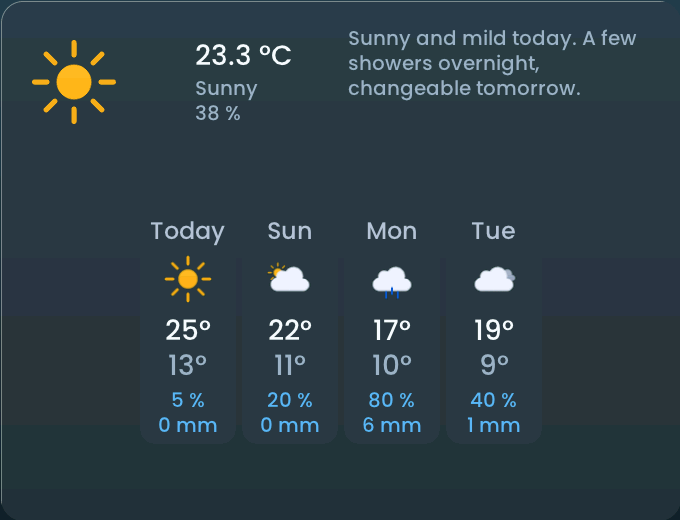
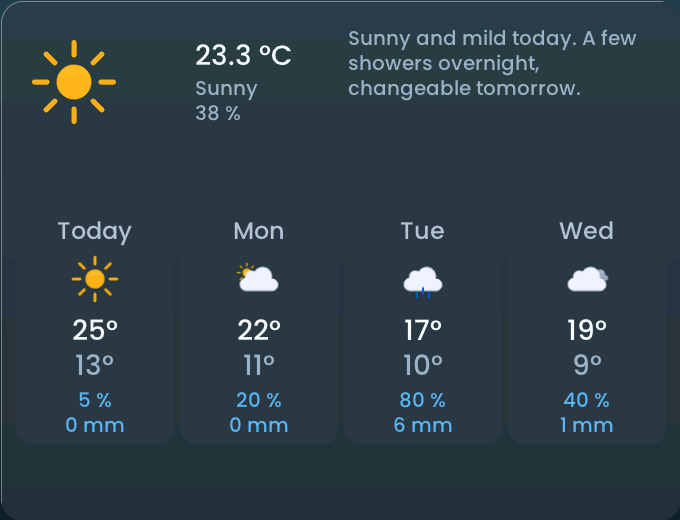
docs(weather): merge the weather guides and regenerate the gallery
Weather forecast is the days view of the Weather tile, so it no longer has a
guide of its own: weather_tile.md covers both views and the day selection,
weather_3day stays a legacy type without guide, gallery and doc examples are
rendered from the merged tile, and the release notes describe one Weather tile.

The simulator now picks the text caps of a tile through
ui_widget_factory_caps_type(), as the firmware does, so a weather tile that shows
days is checked with the forecast caps (it overflowed on Tab5 at 260x480).

diff --git a/components/webui/www/js/i18n-de.js b/components/webui/www/js/i18n-de.js
@@ -1297,8 +1297,7 @@ Object.assign(WEB_I18N_BUILTIN, {
     "inspector.help.widget_empty_tile": "Reserviert **Platz** im Layout. Die Kachel hat keine Entität und abonniert nichts.",
     "inspector.help.widget_light_tile": "Schaltet eine light.*-Entität und regelt **Helligkeit, Farbtemperatur, Farbe und Effekte**, soweit das Licht sie unterstützt.",
     "inspector.help.widget_heating_tile": "Zeigt **Ist- und Solltemperatur** einer Heizungs-Entität (climate.*) und ändert die Solltemperatur.",
-    "inspector.help.widget_weather_tile": "Zeigt das **aktuelle Wetter** einer weather.*-Entität, optional mit stündlicher Vorhersage und einem Detail-Popup für Messwerte und den DWD-Wetterbericht.",
-    "inspector.help.widget_weather_3day": "Vergleicht **Vorhersagetage** einer weather.*-Entität: Temperaturen und Niederschlag in einstellbaren Spalten.",
+    "inspector.help.widget_weather_tile": "Zeigt das **Wetter** einer weather.*-Entität: aktuelle Bedingungen mit optionaler stündlicher Vorhersage oder die **Vorhersagetage** als Spalten; zwei Tasten schalten um.",
     "inspector.help.widget_solar_forecast": "Vergleicht die **erwartete Solarproduktion** aus sensor.*-Prognosen für heute und die nächsten sechs Tage.",
     "inspector.help.widget_car_widget": "Zeigt den **Akkustand** eines Fahrzeugs aus einer sensor.*-Entität als Ringe, mit optionaler Reichweite, Ladeleistung und Fahrzeugsteuerung.",
     "inspector.help.widget_bambu_printer": "Zeigt **Status**, Temperaturen, Fortschritt und Restzeit eines **Bambu-Lab-Druckers** aus dessen sensor.*-Entitäten, mit einer gemeinsamen Pause/Weiter-Taste und einer separaten Taste zum Druckabbruch.",

diff --git a/components/webui/www/js/i18n.js b/components/webui/www/js/i18n.js
@@ -1326,8 +1326,7 @@ const WEB_I18N_BUILTIN = {
     "inspector.help.widget_empty_tile": "Reserves **dashboard space**. It has no entity and subscribes to nothing.",
     "inspector.help.widget_light_tile": "Switches a light.* entity and adjusts **brightness, colour temperature, colour and effects** as far as the light supports them.",
     "inspector.help.widget_heating_tile": "Shows a heating climate.* entity's **measured and target temperatures** and adjusts the target.",
-    "inspector.help.widget_weather_tile": "Shows the **current conditions** of a weather.* entity, with optional hourly forecasts and a detail popup for readings and the DWD weather report.",
-    "inspector.help.widget_weather_3day": "Compares **forecast days** of a weather.* entity: temperatures and precipitation in configurable columns.",
+    "inspector.help.widget_weather_tile": "Shows the **weather** of a weather.* entity: current conditions with optional hourly forecasts, or the **forecast days** as columns; a button pair switches between them.",
     "inspector.help.widget_solar_forecast": "Compares the **predicted solar production** from sensor.* forecasts for today and the next six days.",
     "inspector.help.widget_car_widget": "Shows a **car's battery level** from a sensor.* entity as rings, with optional range, charging power and vehicle controls.",
     "inspector.help.widget_bambu_printer": "Shows a **Bambu Lab printer's status**, temperatures, progress and remaining time from its sensor.* entities, with one Pause/Resume control and a separate print-abort button.",

diff --git a/components/webui/www/js/inspector-hints.js b/components/webui/www/js/inspector-hints.js
@@ -118,7 +118,7 @@ function inspectorHelpParagraphs(text) {
 function inspectorHelpTopic() {
   const widget = selectedWidget();
   if (widget) {
-    const type = widget.type === "roborock_tile" ? "vacuum_tile" : widget.type;
+    const type = widget.type === "roborock_tile" ? "vacuum_tile" : widget.type === "weather_3day" ? "weather_tile" : widget.type;
     if (!WIDGET_NAME_TYPES.has(type)) return null;
     // The popup repeats the guide's summary (tools/check_web.py compares them), so it links to the guide's top.
     return { type, url: "https://andre68723.github.io/BETTA-HA-PANEL/widgets/" + (type === "wallbox_evcc" ? "wallbox" : type) + ".html" };

diff --git a/tools/widget_docs_content.py b/tools/widget_docs_content.py
@@ -390,35 +390,26 @@ WIDGETS = {
         "panel": ["Status, power, charged energy, remaining time and the current SOC on a green bar.",
                   "The optional header sits above the modes: the charging power against its maximum, or the site's flow as in the evcc app: one bar of the sources (PV, battery, grid) with their values in kW, brackets with icons above for the sources and below for the consumers (home, car, battery charge, export). On the 10-inch panel it needs about 410 px (power) or 450 px (flow) of height, more with larger text, and stays off on a shorter card; the Inspector names the height."],
     },
-    "weather_3day": {
-        "summary": "Compares **forecast days** of a `weather.*` entity: temperatures and precipitation in configurable columns.",
-        "entities": [("Weather", "`weather.*`", True), ("DWD weather report", "`sensor.*`", False)],
-        "requirements": "A **[weather](https://www.home-assistant.io/integrations/weather/)** entity with daily forecasts. The report text "
-                        "needs the **[DWD Weather integration](https://github.com/FL550/dwd_weather)** and its separate *Weather report* sensor "
-                        "(see [DWD report setup](../home-assistant.md#what-a-feature-needs)); the report is German.",
-        "options": [("Visible days", "fewer days give each column more room; Auto shows as many as are readable"),
-                    ("Show rain chance and amount", "on by default"),
-                    ("Show name", "off by default")],
-        "panel": ["A tap on a day opens a popup with pressure, wind, UV and that day's report.",
-                  "With the report, a tap on the temperature shows the full text; a wide header shows a summary (about 150 × 40 px free)."],
-    },
     "weather_tile": {
-        "summary": "Shows the **current conditions** of a `weather.*` entity, with optional hourly forecasts and a detail popup for readings and the DWD weather report.",
+        "summary": "Shows the **weather** of a `weather.*` entity: current conditions with optional hourly forecasts, or the **forecast days** as columns; a button pair switches between them.",
         "entities": [("Weather", "`weather.*`", True), ("DWD weather report", "`sensor.*`", False)],
-        "requirements": "Current conditions need a weather entity. **Show hourly forecast** needs that provider's hourly forecasts; "
-                        "daily forecasts are not substituted. The optional German report needs the **[DWD Weather integration](https://github.com/FL550/dwd_weather)** "
-                        "and its separate *Weather report* sensor; enable it in Home Assistant if it is disabled.",
-        "options": [("Show hourly forecast", "off by default; adds a horizontal strip of up to 24 upcoming hours with time, condition and temperature"),
-                    ("View", "**Today** (default) or **Forecast days**: the view the tile starts with; the forecast days need at least 260 × 220 px"),
-                    ("Visible days / Show rain chance and amount", "shown whenever the forecast days can appear, as for the forecast tile"),
-                    ("Show selector buttons on the tile", "off by default; two buttons above the tile switch between today and the forecast days, as the period buttons of Stocks do"),
-                    ("DWD weather report", "optional sensor, shown in the detail popup"),
+        "requirements": "A **[weather](https://www.home-assistant.io/integrations/weather/)** entity: current conditions need no forecast, the days need daily forecasts. "
+                        "**Show hourly forecast** needs that provider's hourly forecasts; daily forecasts are not substituted. The optional German report needs the "
+                        "**[DWD Weather integration](https://github.com/FL550/dwd_weather)** and its separate *Weather report* sensor "
+                        "(see [DWD report setup](../home-assistant.md#what-a-feature-needs)); enable it in Home Assistant if it is disabled.",
+        "options": [("View", "**Today** (default) or **Forecast days**: the view the tile starts with; the forecast days need at least 260 × 220 px"),
+                    ("Show day selection", "off by default; two buttons at the top of the tile switch between today and the forecast days, as the period buttons of Stocks do"),
+                    ("Show hourly forecast", "off by default; adds a horizontal strip of up to 24 upcoming hours with time, condition and temperature"),
+                    ("Visible days", "forecast days only; fewer days give each column more room, Auto shows as many as are readable"),
+                    ("Show rain chance and amount", "forecast days only; on by default"),
+                    ("DWD weather report", "optional sensor, shown in the details and on the forecast days"),
                     ("Show name", "off by default, to leave room for the conditions")],
         "panel": ["The hourly strip appears only when a full column fits below the current weather; a tile that is too short shows the current weather alone.",
-                  "A tap opens today's details: temperatures, the available humidity, pressure, wind and visibility, and the optional DWD report.",
+                  "A tap on today opens its details: temperatures, the available humidity, pressure, wind and visibility, and the optional DWD report. A tap on a forecast day opens that day's pressure, wind, UV and report; with the report, a tap on the temperature shows the full text, and a wide header shows a summary (about 150 × 40 px free).",
                   "With hourly forecasts, scroll horizontally for later hours; scrolling does not open the popup. The strip shows the next 24 hours from now, so it usually crosses midnight: a divider and the weekday mark the first column of the new day. Times use the panel's time zone.",
                   "Hourly forecasts are fetched only while the tile is visible and refreshed every 15 minutes. A missing hourly forecast is shown explicitly; current conditions remain available.",
-                  "Without the hourly strip, today's low and precipitation appear when there is room. The tile uses the same Meteocons as the daily forecast.",
+                  "Without the hourly strip, today's low and precipitation appear when there is room. Today and the days use the same Meteocons.",
+                  "Layouts saved with the former Weather forecast tile are converted to this tile (View: Forecast days) when they are opened in the editor; the panel keeps displaying the old type until then.",
                   "Close details with the close button or a tap outside; they also close automatically after one minute."],
     },
 }

diff --git a/tools/gallery_content.py b/tools/gallery_content.py
@@ -255,7 +255,7 @@ WIDGET_GROUPS = [
      ["button", "slider", "light_tile", "heating_tile", "climate_tile", "cover_tile", "fan_tile", "lock_tile", "alarm_tile", "select_tile", "datetime_tile", "scene_tile"]),
     ("Rooms", "Everything about one room in a single card.", ["room_tile", "air_quality_tile"]),
     ("Weather and energy", "Forecasts, solar production and the energy balance.",
-     ["weather_tile", "weather_3day", "solar_forecast", "energy_price_forecast", "energy_timeline"]),
+     ["weather_tile", "solar_forecast", "energy_price_forecast", "energy_timeline"]),
     ("Media and tasks", "Playback, favourites and shopping lists.", ["media_player", "sonos_favorites", "todo_list"]),
     ("Devices", "Vacuum, camera, car, wallbox and 3D printer.", ["vacuum_tile", "camera_tile", "car_widget", "bambu_printer", "wallbox_evcc"]),
     ("Layout", "Space for the design itself.", ["empty_tile"]),
@@ -265,7 +265,7 @@ WIDGET_GROUPS = [
 # title ("Vertical", "Horizontal"), which said nothing about which widget it even was.
 ROW_DISPLAY_NAME = {
     "air_quality_tile": "Air quality", "sensor": "Sensor", "gauge": "Gauge", "car_widget": "Car", "bambu_printer": "Bambu printer", "wallbox_evcc": "Wallbox", "graph": "Graph",
-    "solar_forecast": "Solar forecast", "energy_price_forecast": "Energy price forecast", "parqet_portfolio": "Parqet portfolio", "stock_quotes": "Stocks & ETFs", "weather_tile": "Weather (now)", "weather_3day": "Weather forecast",
+    "solar_forecast": "Solar forecast", "energy_price_forecast": "Energy price forecast", "parqet_portfolio": "Parqet portfolio", "stock_quotes": "Stocks & ETFs", "weather_tile": "Weather",
     "button": "Button", "scene_tile": "Scene", "select_tile": "Select", "lock_tile": "Lock", "alarm_tile": "Alarm", "datetime_tile": "Date/Time", "slider": "Slider", "cover_tile": "Cover",
     "light_tile": "Light", "fan_tile": "Fan", "climate_tile": "Climate", "heating_tile": "Heating",
     "media_player": "Media player", "sonos_favorites": "Sonos favorites", "contact_tile": "Contact",

diff --git a/main/ui/ui_widget_factory.c b/main/ui/ui_widget_factory.c
@@ -367,7 +367,7 @@ static void ui_widget_factory_apply_state_inner(ui_widget_instance_t *instance, 
 }
 
 /* A weather tile that can show the forecast days is laid out and capped like the forecast tile. */
-static const char *widget_caps_type(const ui_widget_def_t *def)
+const char *ui_widget_factory_caps_type(const ui_widget_def_t *def)
 {
     if (strcmp(def->type, "weather_tile") == 0 && (def->weather_selector || def->weather_days)) return "weather_3day";
     return def->type;
@@ -377,12 +377,12 @@ static const char *widget_caps_type(const ui_widget_def_t *def)
  * widgets restyle their own background (ui_style_apply_card()). */
 esp_err_t ui_widget_factory_create(const ui_widget_def_t *def, lv_obj_t *parent, ui_widget_instance_t *out_instance)
 {
-    ui_fonts_tile_begin(def != NULL ? widget_caps_type(def) : NULL, def != NULL ? def->w : 0, def != NULL ? def->h : 0);
+    ui_fonts_tile_begin(def != NULL ? ui_widget_factory_caps_type(def) : NULL, def != NULL ? def->w : 0, def != NULL ? def->h : 0);
     esp_err_t err = ui_widget_factory_create_inner(def, parent, out_instance);
     ui_fonts_tile_end();
     if (err == ESP_OK && out_instance != NULL) {
-        if (def != NULL && strcmp(widget_caps_type(def), def->type) != 0) {
-            snprintf(out_instance->caps_type, sizeof(out_instance->caps_type), "%s", widget_caps_type(def));
+        if (def != NULL && strcmp(ui_widget_factory_caps_type(def), def->type) != 0) {
+            snprintf(out_instance->caps_type, sizeof(out_instance->caps_type), "%s", ui_widget_factory_caps_type(def));
         }
         ui_style_apply_card(out_instance->obj);
     }

diff --git a/tests/simulator/simulator.c b/tests/simulator/simulator.c
@@ -905,7 +905,7 @@ static bool sim_house_room_cb(const ui_widget_def_t *def, lv_obj_t *parent, void
         return false;
     }
     init_instance(&entry->def, &entry->instance);
-    ui_fonts_tile_begin(entry->def.type, entry->def.w, entry->def.h);
+    ui_fonts_tile_begin(ui_widget_factory_caps_type(&entry->def), entry->def.w, entry->def.h);
     const esp_err_t create_err = entry->type->create(&entry->def, parent, &entry->instance);
     ui_fonts_tile_end();
     if (create_err != ESP_OK) {
@@ -1232,7 +1232,7 @@ int main(int argc, char **argv)
             continue;
         }
         init_instance(&entry->def, &entry->instance);
-        ui_fonts_tile_begin(entry->def.type, entry->def.w, entry->def.h);
+        ui_fonts_tile_begin(ui_widget_factory_caps_type(&entry->def), entry->def.w, entry->def.h);
         const esp_err_t content_err = entry->type->create(&entry->def, content, &entry->instance);
         ui_fonts_tile_end();
         if (content_err != ESP_OK) {
@@ -1280,7 +1280,7 @@ int main(int argc, char **argv)
         }
         for (int i = 0; i < created; i++) {
             if (widget_uses_entity(&widgets[i].def, state.entity_id)) {
-                ui_fonts_tile_begin(widgets[i].def.type, widgets[i].def.w, widgets[i].def.h);
+                ui_fonts_tile_begin(ui_widget_factory_caps_type(&widgets[i].def), widgets[i].def.w, widgets[i].def.h);
                 widgets[i].type->apply(&widgets[i].instance, &state);
                 ui_fonts_tile_end();
                 sim_style_card(&widgets[i].instance);

diff --git a/tools/generate_widget_docs.py b/tools/generate_widget_docs.py
@@ -331,7 +331,7 @@ def main():
         grouped.setdefault(row["tiles"][0][1]["type"], []).append(row)
     limits = size_limits()
     variants = variant_minimums()
-    expected = set(limits) - {"roborock_tile"}
+    expected = set(limits) - {"roborock_tile", "weather_3day"}  # the legacy forecast type is the Weather days view
     if set(WIDGETS) != expected:
         raise RuntimeError(f"Update tools/widget_docs_content.py: missing {expected - set(WIDGETS)}, unknown {set(WIDGETS) - expected}")
     catalog = []
@@ -341,8 +341,8 @@ def main():
         info = WIDGETS[kind]
         check_summary(kind, limits[kind][4], info["summary"])
         figures = preview_figures(grouped.get(kind, []))
-        if kind == "weather_3day":
-            figures = preview_figures([{"tiles": [("weather-forecast-report", {"title": "Forecast with optional DWD report"})]}], "examples") + figures
+        if kind == "weather_tile":
+            figures = preview_figures([{"tiles": [("weather-forecast-report", {"title": "Forecast days with optional DWD report"})]}], "examples") + figures
         sections = [HEADER, "", f"# {title}", "", info["summary"], ""]
         if figures:
             sections += figure_block(figures[:1], captions=False)

diff --git a/tools/check_web.py b/tools/check_web.py
@@ -350,6 +350,7 @@ def creatable_widget_types(bind_js, config_js, custom_js=""):
 
 
 # Widget types the editor no longer offers to create: it rewrites them to their current form when a layout loads.
+# They have no guide of their own either; the Weather guide covers the forecast days.
 LEGACY_EDITOR_TYPES = {"weather_3day"}
 
 
@@ -372,9 +373,9 @@ def check_widget_type_tables():
     groups = [kind for _, _, kinds in GROUPS for kind in kinds]
     for kind in sorted(set(size_limits()) - {"roborock_tile"}):
         missing = [place for place, types in registrations.items() if kind not in types]
-        if kind in LEGACY_EDITOR_TYPES:  # the editor rewrites these on load; the panel still reads them
-            missing = [place for place in missing if place != "editor.add"]
-        if groups.count(kind) != 1:
+        if kind in LEGACY_EDITOR_TYPES:  # the editor rewrites these on load and the guide covers the current form
+            missing = [place for place in missing if place not in ("editor.add", "docs.content")]
+        elif groups.count(kind) != 1:
             missing.append("docs.group (expected once)")
         if missing:
             fail(f"widget {kind}: missing " + ", ".join(missing))

diff --git a/tools/generate_docs_examples.py b/tools/generate_docs_examples.py
@@ -139,7 +139,7 @@ def render_panels(wide, compact, devices, output, appearance_only=False, setup_o
         popup["open_popup"] = kind
         popups.append(("paneljc", popup, "topbar", "glow", f"popup-{kind}"))
     report_fixture = copy.deepcopy(wide)
-    forecast = next(widget for widget in report_fixture["pages"][0]["widgets"] if widget["type"] == "weather_3day")
+    forecast = next(widget for widget in report_fixture["pages"][0]["widgets"] if widget["type"] == "weather_tile" and widget.get("weather_view") == "days")
     forecast.update(id="weather_report", rect={"x": 16, "y": 16, "w": 680, "h": 520})
     report_fixture["pages"] = [{"id": "weather_report", "title": "Weather report", "widgets": [forecast]}]
     report = next(state for state in report_fixture["states"] if state["entity_id"] == forecast["secondary_entity_id"])

diff --git a/main/ui/ui_widget_factory.h b/main/ui/ui_widget_factory.h
@@ -166,6 +166,8 @@ typedef struct {
  * that depends on being on screen, so showing their page needs no state re-apply. */
 bool ui_widget_factory_needs_refresh_on_show(const char *type);
 
+/* The type whose text caps apply to a tile: a weather tile that shows days uses the forecast caps. */
+const char *ui_widget_factory_caps_type(const ui_widget_def_t *def);
 esp_err_t ui_widget_factory_create(const ui_widget_def_t *def, lv_obj_t *parent, ui_widget_instance_t *out_instance);
 void ui_widget_factory_apply_state(ui_widget_instance_t *instance, const ha_state_t *state);
 void ui_widget_factory_mark_unavailable(ui_widget_instance_t *instance);

diff --git a/docs/gallery.md b/docs/gallery.md
@@ -33,9 +33,9 @@ Examples use synthetic data. The columns change only the style, not the availabl
 | [Room](widgets/room_tile.md) | **Room, humidity**<br>![Room, humidity (flat)](img/gallery/room_humidity_flat.png)<br>**Room, cover**<br>![Room, cover (flat)](img/gallery/room_cover_flat.png)<br>**Room, media player**<br>![Room, media player (flat)](img/gallery/room_media_player_flat.png) | **Room, humidity**<br>![Room, humidity (glow)](img/gallery/room_humidity_glow.png)<br>**Room, cover**<br>![Room, cover (glow)](img/gallery/room_cover_glow.png)<br>**Room, media player**<br>![Room, media player (glow)](img/gallery/room_media_player_glow.png) | **Room, humidity**<br>![Room, humidity (glass)](img/gallery/room_humidity_glass.png)<br>**Room, cover**<br>![Room, cover (glass)](img/gallery/room_cover_glass.png)<br>**Room, media player**<br>![Room, media player (glass)](img/gallery/room_media_player_glass.png) | **Room, humidity**<br>![Room, humidity (matte)](img/gallery/room_humidity_matte.png)<br>**Room, cover**<br>![Room, cover (matte)](img/gallery/room_cover_matte.png)<br>**Room, media player**<br>![Room, media player (matte)](img/gallery/room_media_player_matte.png) |
 | [Room](widgets/room_tile.md) | ![Room card (flat)](img/gallery/room_card_flat.png) | ![Room card (glow)](img/gallery/room_card_glow.png) | ![Room card (glass)](img/gallery/room_card_glass.png) | ![Room card (matte)](img/gallery/room_card_matte.png) |
 | [Air quality](widgets/air_quality_tile.md) | ![Air quality (flat)](img/gallery/air_quality_flat.png) | ![Air quality (glow)](img/gallery/air_quality_glow.png) | ![Air quality (glass)](img/gallery/air_quality_glass.png) | ![Air quality (matte)](img/gallery/air_quality_matte.png) |
-| [Weather (now)](widgets/weather_tile.md) | ![Weather (now) (flat)](img/gallery/weather_now_flat.png) | ![Weather (now) (glow)](img/gallery/weather_now_glow.png) | ![Weather (now) (glass)](img/gallery/weather_now_glass.png) | ![Weather (now) (matte)](img/gallery/weather_now_matte.png) |
-| [Weather (now)](widgets/weather_tile.md) | ![Weather hourly forecast (flat)](img/gallery/weather_hourly_forecast_flat.png) | ![Weather hourly forecast (glow)](img/gallery/weather_hourly_forecast_glow.png) | ![Weather hourly forecast (glass)](img/gallery/weather_hourly_forecast_glass.png) | ![Weather hourly forecast (matte)](img/gallery/weather_hourly_forecast_matte.png) |
-| [Weather forecast](widgets/weather_3day.md) | ![Weather forecast (flat)](img/gallery/weather_forecast_flat.png) | ![Weather forecast (glow)](img/gallery/weather_forecast_glow.png) | ![Weather forecast (glass)](img/gallery/weather_forecast_glass.png) | ![Weather forecast (matte)](img/gallery/weather_forecast_matte.png) |
+| [Weather](widgets/weather_tile.md) | ![Weather (now) (flat)](img/gallery/weather_now_flat.png) | ![Weather (now) (glow)](img/gallery/weather_now_glow.png) | ![Weather (now) (glass)](img/gallery/weather_now_glass.png) | ![Weather (now) (matte)](img/gallery/weather_now_matte.png) |
+| [Weather](widgets/weather_tile.md) | ![Weather forecast (flat)](img/gallery/weather_forecast_flat.png) | ![Weather forecast (glow)](img/gallery/weather_forecast_glow.png) | ![Weather forecast (glass)](img/gallery/weather_forecast_glass.png) | ![Weather forecast (matte)](img/gallery/weather_forecast_matte.png) |
+| [Weather](widgets/weather_tile.md) | ![Weather hourly forecast (flat)](img/gallery/weather_hourly_forecast_flat.png) | ![Weather hourly forecast (glow)](img/gallery/weather_hourly_forecast_glow.png) | ![Weather hourly forecast (glass)](img/gallery/weather_hourly_forecast_glass.png) | ![Weather hourly forecast (matte)](img/gallery/weather_hourly_forecast_matte.png) |
 | [Solar forecast](widgets/solar_forecast.md) | **Solar forecast**<br>![Solar forecast (flat)](img/gallery/solar_forecast_flat.png)<br>**Solar forecast (vertical)**<br>![Solar forecast (vertical) (flat)](img/gallery/solar_forecast_vertical_flat.png) | **Solar forecast**<br>![Solar forecast (glow)](img/gallery/solar_forecast_glow.png)<br>**Solar forecast (vertical)**<br>![Solar forecast (vertical) (glow)](img/gallery/solar_forecast_vertical_glow.png) | **Solar forecast**<br>![Solar forecast (glass)](img/gallery/solar_forecast_glass.png)<br>**Solar forecast (vertical)**<br>![Solar forecast (vertical) (glass)](img/gallery/solar_forecast_vertical_glass.png) | **Solar forecast**<br>![Solar forecast (matte)](img/gallery/solar_forecast_matte.png)<br>**Solar forecast (vertical)**<br>![Solar forecast (vertical) (matte)](img/gallery/solar_forecast_vertical_matte.png) |
 | [Energy price forecast](widgets/energy_price_forecast.md) | **Energy price forecast**<br>![Energy price forecast (flat)](img/gallery/energy_price_forecast_flat.png)<br>**Energy price forecast (small)**<br>![Energy price forecast (small) (flat)](img/gallery/energy_price_forecast_small_flat.png) | **Energy price forecast**<br>![Energy price forecast (glow)](img/gallery/energy_price_forecast_glow.png)<br>**Energy price forecast (small)**<br>![Energy price forecast (small) (glow)](img/gallery/energy_price_forecast_small_glow.png) | **Energy price forecast**<br>![Energy price forecast (glass)](img/gallery/energy_price_forecast_glass.png)<br>**Energy price forecast (small)**<br>![Energy price forecast (small) (glass)](img/gallery/energy_price_forecast_small_glass.png) | **Energy price forecast**<br>![Energy price forecast (matte)](img/gallery/energy_price_forecast_matte.png)<br>**Energy price forecast (small)**<br>![Energy price forecast (small) (matte)](img/gallery/energy_price_forecast_small_matte.png) |
 | [Energy timeline](widgets/energy_timeline.md) | ![Energy last 24 hours (flat)](img/gallery/energy_last_24_hours_flat.png) | ![Energy last 24 hours (glow)](img/gallery/energy_last_24_hours_glow.png) | ![Energy last 24 hours (glass)](img/gallery/energy_last_24_hours_glass.png) | ![Energy last 24 hours (matte)](img/gallery/energy_last_24_hours_matte.png) |
